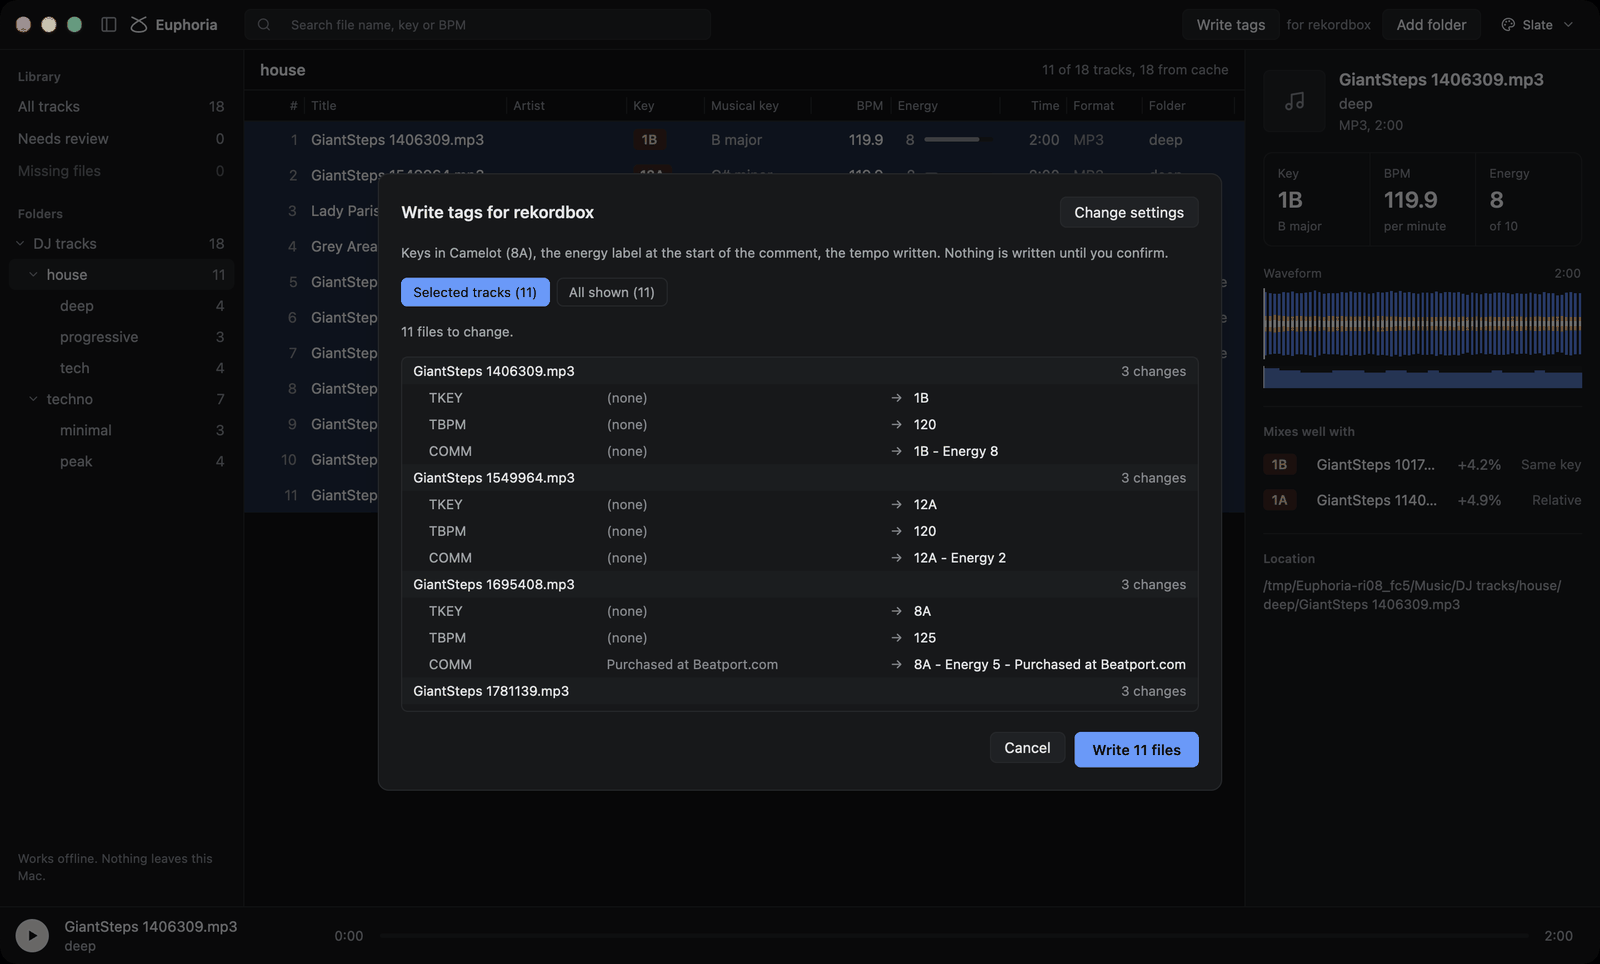
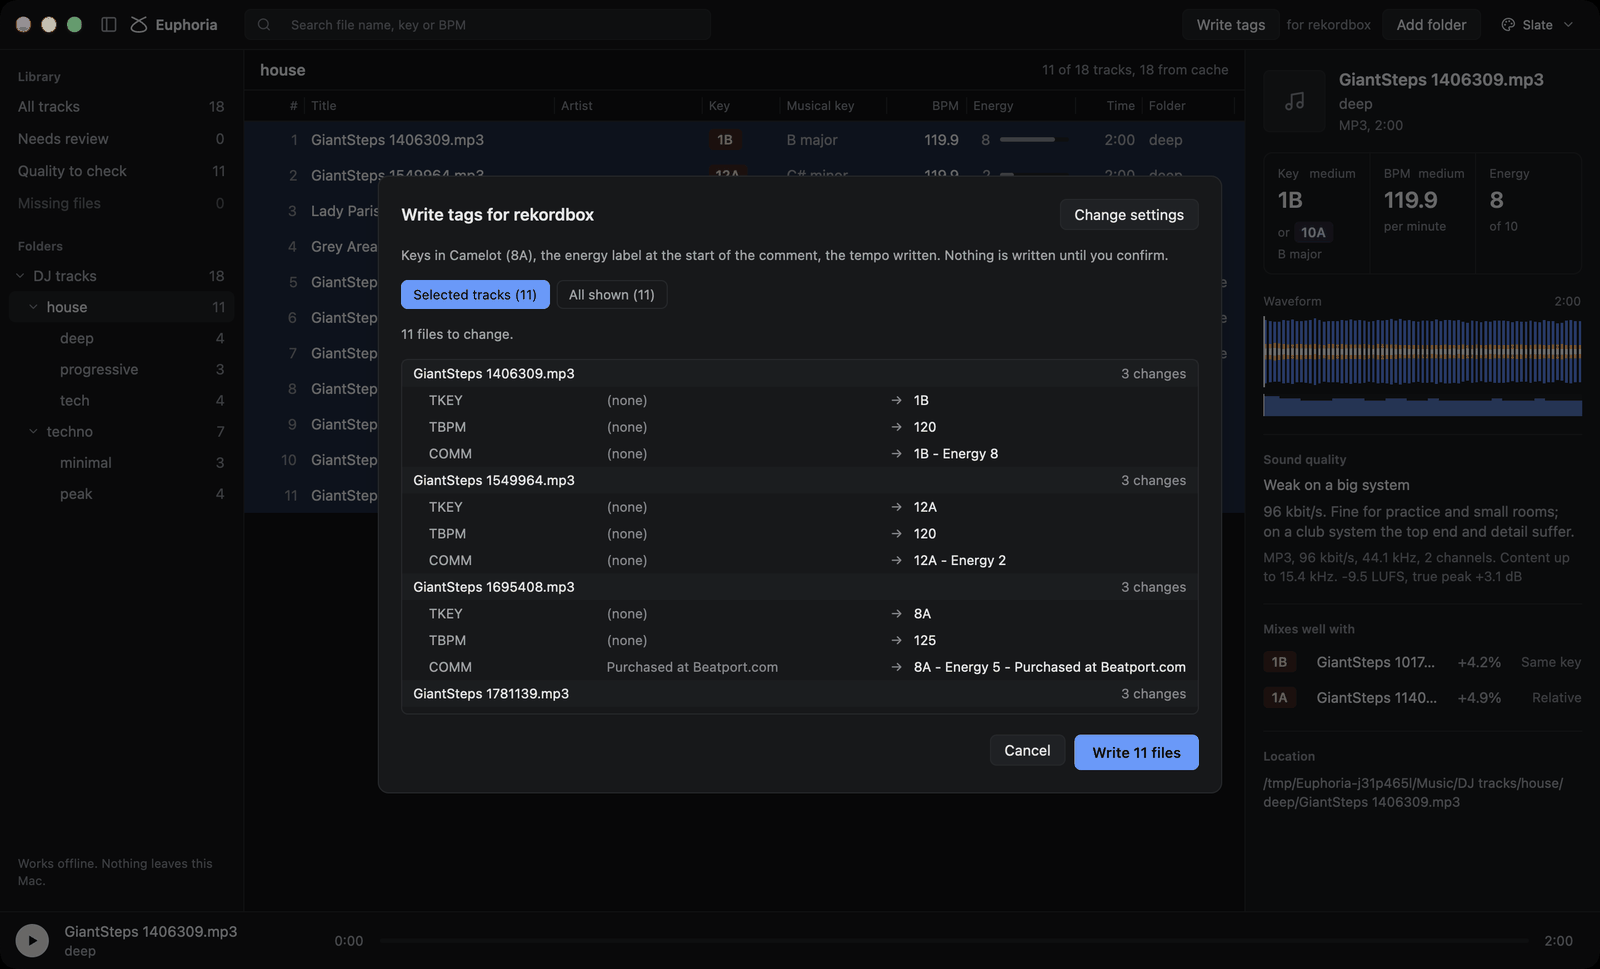
docs(desktop): describe confidence, needs review and the display settings
The desktop app guide explains the confidence shown in the track detail, what Needs review lists, and the Keys and Tempo range settings. The screenshots are regenerated with make_screenshots.py so the track detail shows confidence.

diff --git a/docs/guides/desktop-app.md b/docs/guides/desktop-app.md
@@ -35,7 +35,7 @@ Your files are only read, until you choose to [write tags](#write-tags) into the
 | --- | --- |
 | Title | The title in the file's tags, or the file name when there is none |
 | Artist | The artist in the file's tags |
-| Key | The Camelot code, coloured by its number |
+| Key | The key's code, coloured by its Camelot number: Camelot (8A) unless you choose musical (Am) or Open Key (1m) in the [settings](#settings) |
 | Musical key | The key by name, such as A minor |
 | BPM | The tempo, to one decimal |
 | Energy | The [energy rating](../concepts/energy.md) from 1 to 10, with a bar |
@@ -63,7 +63,7 @@ Click a row to select it. The arrow keys, Page Up, Page Down, Home and End move 
 ## The sidebar
 
 - **All tracks** shows the whole library.
-- **Needs review** shows the tracks that could not be analyzed, within the folder on show when one is chosen. Its count follows that folder.
+- **Needs review** shows the tracks worth checking by ear: those whose key or tempo is rated low confidence, and those that could not be analyzed, within the folder on show when one is chosen. Its count follows that folder, and a line under the heading says why the tracks are there. [Accuracy](../concepts/accuracy.md#confidence) explains how confidence is rated.
 - **Quality to check** shows the tracks whose quality is weak on a big system or likely re-encoded: the files worth replacing with a better copy. Like Needs review, it works within the folder on show.
 - **Missing files** is a placeholder and always shows 0.
 - **Folders** shows each folder you added as a tree of the folders inside it, to any depth, with the number of tracks in each, counting the folders inside it. Folders with no audio files anywhere inside them are left out.
@@ -96,6 +96,12 @@ To give the table more room, fold the sidebar away. Any of these folds it, and t
 ## The inspector
 
 The inspector shows the selected track: its name, format and length, its key, tempo and energy in three boxes, and its waveform. The waveform is read from the file when you select the track. Below them, **Sound quality** gives the quality verdict, the reason for it, and what it rests on: codec, bit rate, sample rate, where the content stops, loudness and true peak.
+
+### How sure the key and the tempo are
+
+The Key and BPM boxes say quietly how far to trust the value: **high**, **medium** or **low**, beside the box's name. Low is shown in red, and puts the track under **Needs review**. Point at the word for what it means.
+
+When the key is not rated high, the key that matched second best sits beside it, as a chip such as "or 9A": play the track and compare the two by ear. When a DJ could plausibly count the track at half or double the tempo, that tempo is shown under it, such as "or 87.0". For now these are shown only; the track keeps the key and tempo Euphoria found.
 
 **Mixes well with** lists up to eight other tracks in your library whose key mixes with the selected one and whose tempo is within 6 percent: the same key, the keys one step either way on the Camelot wheel, and the relative major or minor. The smoothest key moves come first, then the closest tempos, then the closest energy. Each row shows the key, the name, how much faster or slower the track is, and how the keys relate. Click a row to go to that track. [Keys and the Camelot wheel](../concepts/keys-and-camelot.md) explains these moves.
 
@@ -167,10 +173,19 @@ Each file written, and each file put back by an undo, is recorded in the [analys
 
 Open the settings with **Euphoria > Settings…** (Command comma), or click the program name beside **Write tags**.
 
+How keys and tempos are shown:
+
+| Setting | Choices |
+| --- | --- |
+| Keys | Camelot (8A), musical (Am) or Open Key (1m), in the table, the track detail, the mixes and the key timeline. The wheel keeps Camelot codes. Search finds a key in any of the three. |
+| Tempo range | House and techno, 90 to 180 (the default); hip hop, 70 to 140; drum and bass, 120 to 200; or a custom range of whole beats per minute, at most an octave wide, such as 80 up to 160. A track counted at half or double speed moves into the range. Nothing is analyzed again, and tags are written with the tempo as shown. A custom range that cannot be used is explained under it, and the last range that worked stays in use. [Choosing the range](../concepts/accuracy.md#choosing-the-range) says more. |
+
+How tags are written:
+
 | Setting | Choices |
 | --- | --- |
 | DJ program | rekordbox, Serato, Traktor, Engine DJ, VirtualDJ, Mixxx, or any program. Tags are written to the fields that program reads; [Use Euphoria with your DJ program](dj-programs.md) lists them. |
-| Key notation | Camelot (8A), musical (Am) or Open Key (1m), in the key field and in the label. |
+| Key notation | Camelot (8A), musical (Am) or Open Key (1m), in the key field and in the label. It is separate from how keys are shown, so the tags can follow what your DJ program expects. |
 | Energy label | At the start of the comment, at its end, at the start of the grouping, or nowhere. |
 | Tempo | Whether the tempo is written. Choosing Serato unticks it, because Serato detects the tempo itself only for files that have none; you can tick it again. |
 
@@ -196,7 +211,7 @@ Choose a theme from the menu at the right of the toolbar, or from **View > Theme
 
 ## What the app remembers
 
-The folders you added, the theme, whether the sidebar is folded, the sizes you gave the inspector and the Deck strip, the folders you opened in the tree, the folder on show, the column widths you chose and the tag writing settings are kept in `settings.json`. The backups of tag writes are kept in the `tag-writes` folder beside it:
+The folders you added, the theme, whether the sidebar is folded, the sizes you gave the inspector and the Deck strip, the folders you opened in the tree, the folder on show, the column widths you chose, how keys and tempos are shown and the tag writing settings are kept in `settings.json`. The backups of tag writes are kept in the `tag-writes` folder beside it:
 
 | System | Folder |
 | --- | --- |
